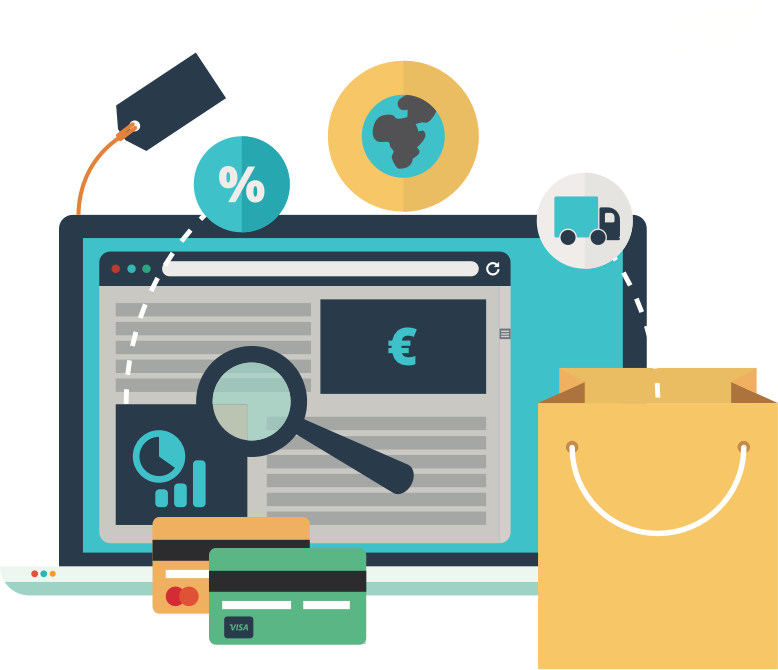
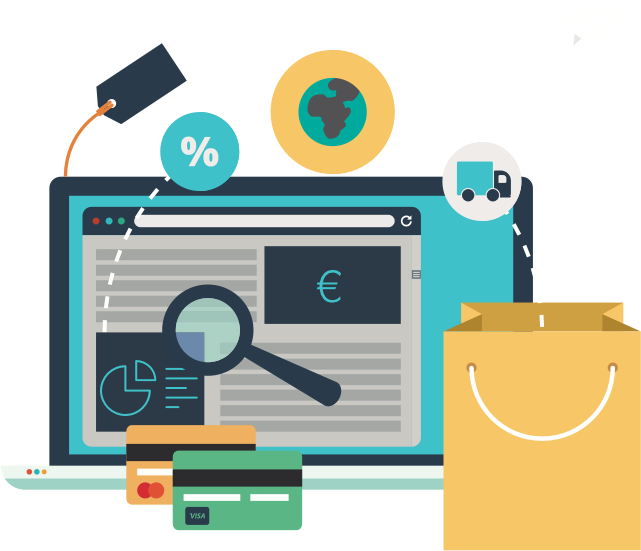
home page design done

diff --git a/app/assets/stylesheets/components/_banner.scss b/app/assets/stylesheets/components/_banner.scss
@@ -7,11 +7,11 @@
 
 .banner {
   color: white;
-  // height: 100vh;
+  height: 100vh;
   background: #E2EBF2;
-  background-size: cover !important;
-  display: flex;
-  position: relative;
+  // background-size: cover !important;
+  // display: flex;
+  // position: relative;
 }
 .banner h1 {
   font-size: 35px;
@@ -29,7 +29,7 @@
 .banner-content img{
   position: absolute;
   right: 100px;
-  top: 120px;
+  top: 100px;
   width: 600px;
 }
 
@@ -40,23 +40,40 @@ left: 88px;
 }
 
 .divider{
-  height: 30px;
+  height: 35px;
   position: absolute;
-  right: 120px;
+  right: 160px;
   top: 20px;
   border-left: 1px solid #3FC1C9;
 }
 
 .banner-connect a{
   position: absolute;
-  right: 20px;
+  right: 40px;
   top: 22px;
   color: #3FC1C9;
   text-decoration: none;
-  font-size: 18px
+  font-size: 20px
 }
 
 .banner-features {
+  padding-top: 140px;
+  padding-bottom: 30px;
   background: #3FC1C9;
-  height: 400px;
+  margin-top: -180px;
+}
+
+.banner-features img {
+  width: 130px;
+}
+
+.feature-tagline {
+  margin-top: 10px;
+  color: #E2EBF2;
+}
+
+.feature-tagline h3 {
+  color: #E2EBF2;
+  font-size: 18px;
+  margin-bottom: -10px;
 }
